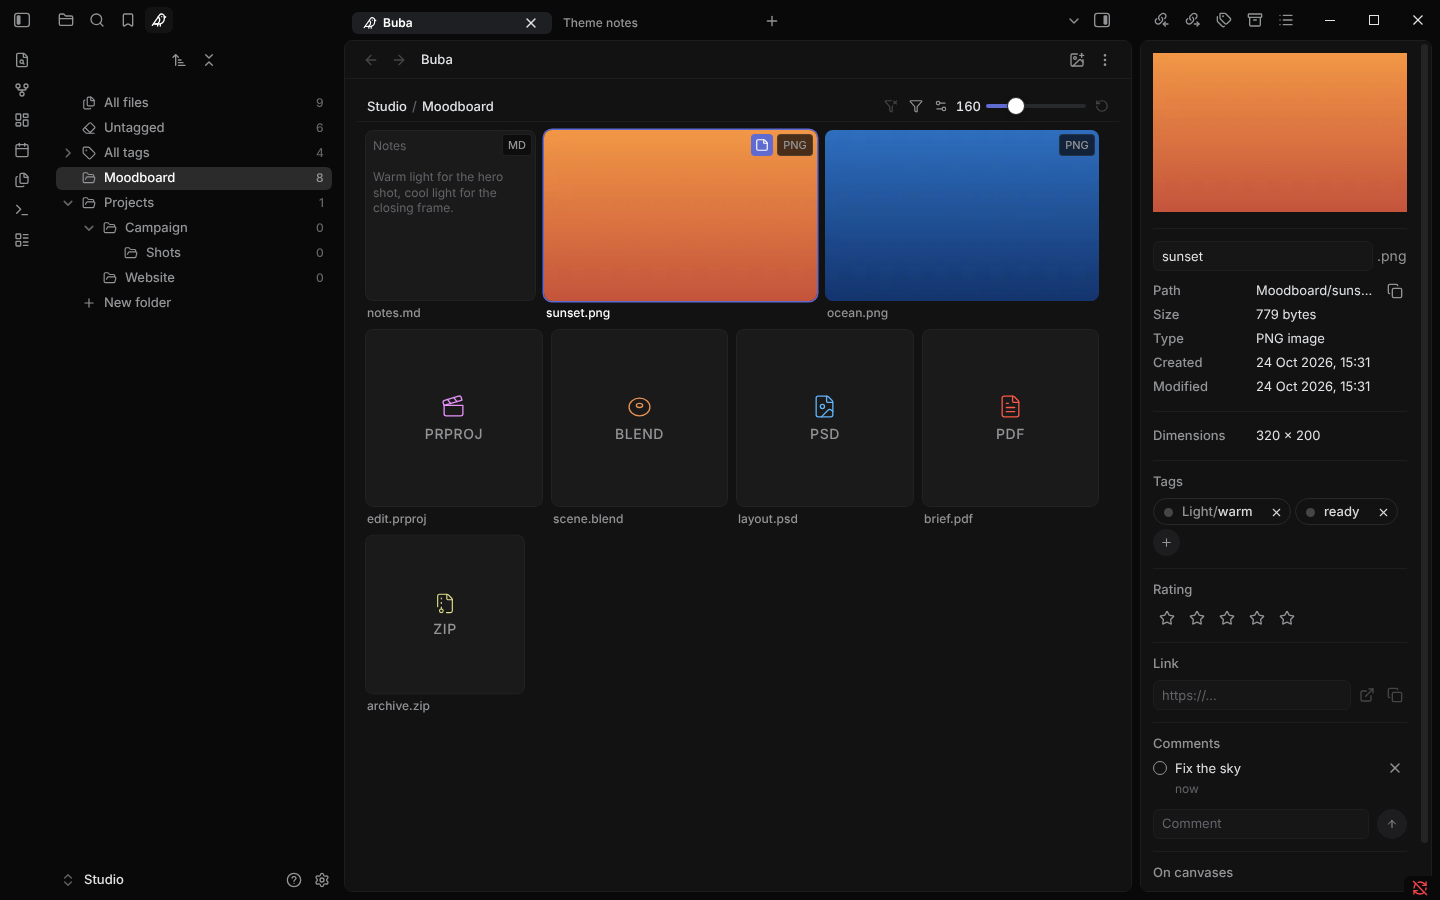
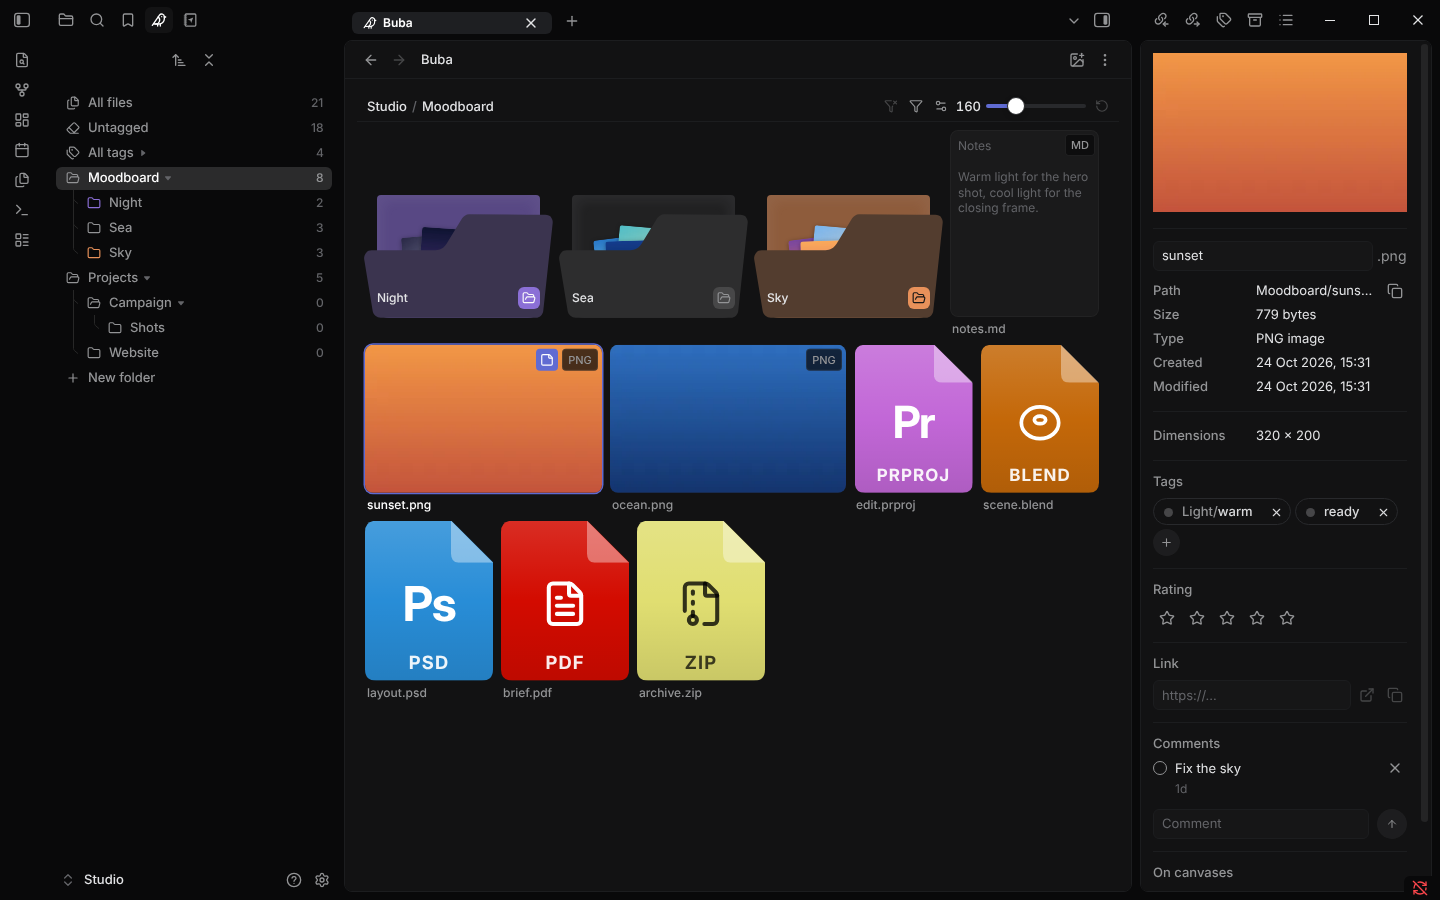
README: new screenshots with Buba 1.1.0 (folder and file tiles, new tree)
Claude-Session: https://claude.ai/code/session_01EkLhm4ZQ1ANh6oRQJHDmk8

diff --git a/README.md b/README.md
@@ -7,7 +7,7 @@ A calm dark theme for Obsidian, made to go with the [Buba](https://github.com/Op
 - **Quiet text.** Labels and sidebar items are grey and turn white under the pointer or when open, so the content stands out and the interface does not.
 - **Frame and panel.** A near-black window frame holds a slightly lighter rounded panel for your notes and views. Tabs are small pills, menus are rounded and dark.
 - **Inter** for the interface and for notes: the copy that ships with Obsidian, so the theme stays small and loads nothing from the internet.
-- **Made for Buba.** Grid tiles are quiet cards, tags are round pills, the file panel reads like a property list. The theme works without Buba too.
+- **Made for Buba.** Folder and file tiles sit calmly on the dark panel, tags are round pills, the file panel reads like a property list. The theme works without Buba too.
 - **Core views and popular plugins.** Canvas controls, graph, Bases, properties, callouts, tables, search and link previews share the same look, and so do Excalidraw, Tasks, Omnisearch, Notebook Navigator, TaskNotes, Editing Toolbar, Advanced Canvas and Git.
 - Desktop, phone and tablet. Dark mode only: in light mode Obsidian's own look stays.
 
